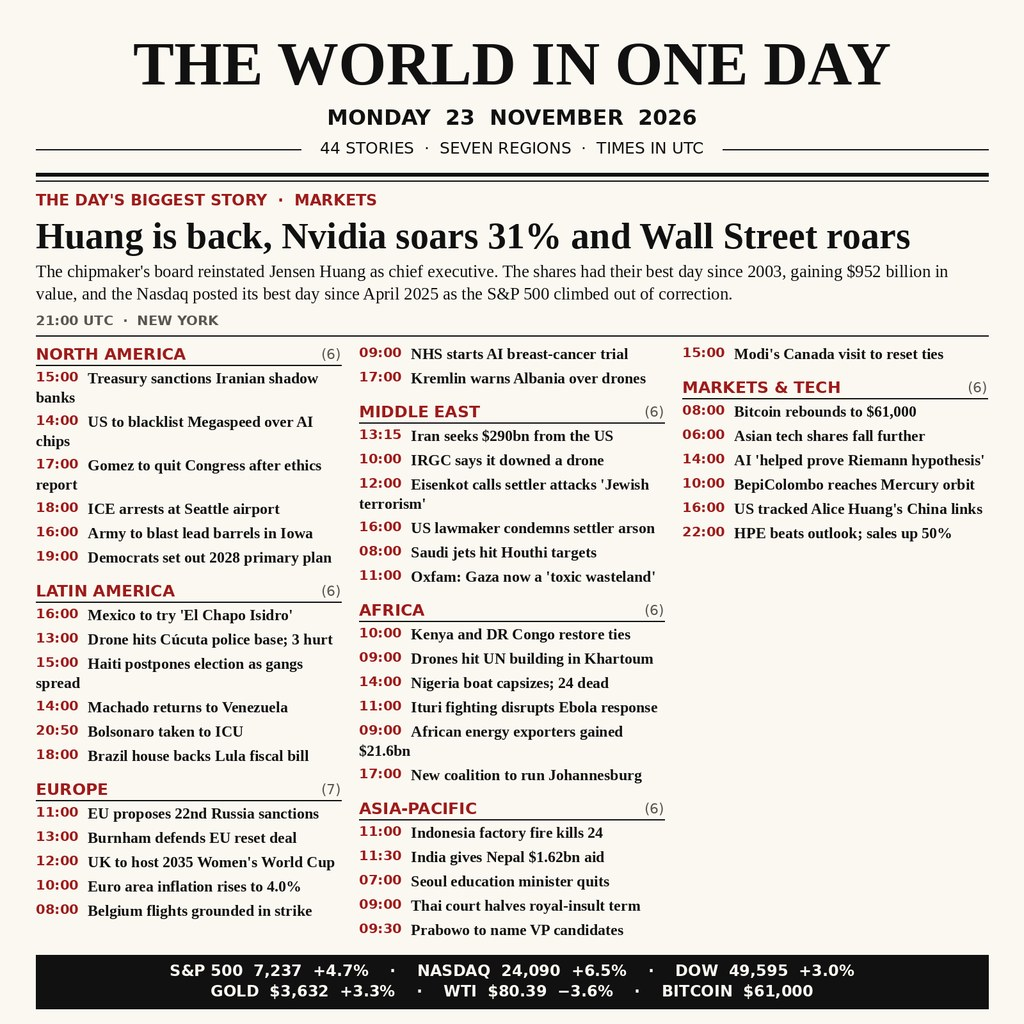
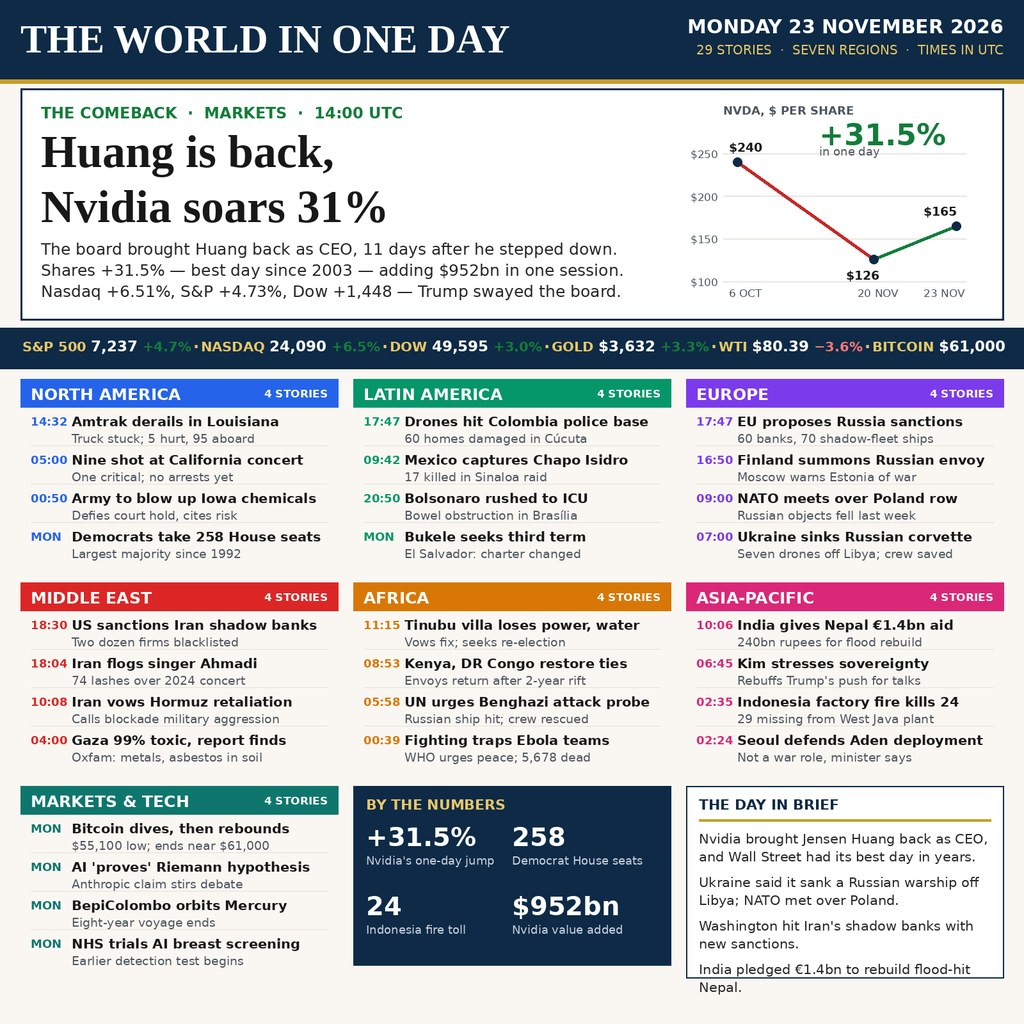
Round 4: rebuilt front page — 29 stories, new design

diff --git a/main.py b/main.py
@@ -1,25 +1,24 @@
-#!/usr/bin/env python3
-"""Copy the rendered front page to the output path.
+"""Place the bundled front page where the grader expects it.
 
-The image is rendered at build time and committed in the repository;
-this program only copies it, so both runs write identical bytes.
+The page itself is rendered while the entry is built and shipped in
+this repository as front.jpg. This program does no drawing: it puts a
+byte-identical copy of that file at /output/entry.png.
 """
 import os
 import shutil
 import sys
 
-HERE = os.path.dirname(os.path.abspath(__file__))
+ROOT = os.path.dirname(os.path.abspath(__file__))
+SHIPPED = os.path.join(ROOT, "front.jpg")
 
 
 def main():
-    out_dir = os.environ.get("MAKEFUN_OUTPUT_DIR", "/output")
+    out_dir = os.environ.get("MAKEFUN_OUTPUT_DIR") or "/output"
     os.makedirs(out_dir, exist_ok=True)
-    src = os.path.join(HERE, "front.jpg")
-    if not os.path.isfile(src):
-        print("front.jpg is missing from the repository", file=sys.stderr)
-        return 1
-    dst = os.path.join(out_dir, "entry.png")
-    shutil.copyfile(src, dst)
+    dest = os.path.join(out_dir, "entry.png")
+    shutil.copyfile(SHIPPED, dest)
+    if os.path.getsize(dest) != os.path.getsize(SHIPPED):
+        raise SystemExit("copied image does not match the shipped file")
     return 0
 
 

diff --git a/README.md b/README.md
@@ -4,18 +4,12 @@
 [![rank](https://make.fun/badge/news-image-20261123/bigD90girth/news-image-20261123/rank.svg)](https://make.fun/bounty/news-image-20261123/leaderboard?utm_source=github&utm_medium=readme&utm_campaign=news-image-20261123)
 [![reward](https://make.fun/badge/news-image-20261123/bigD90girth/news-image-20261123/reward.svg)](https://make.fun/bounty/news-image-20261123?utm_source=github&utm_medium=readme&utm_campaign=news-image-20261123)
 
-A newspaper front page summing up Monday 23 November 2026: Nvidia's board brings Jensen Huang back as chief executive and Wall Street posts its best day since April 2025, alongside 44 stories from seven regions and the day's market closes. The page is rendered with PIL at build time and committed here as front.jpg; main.py copies it to /output/entry.png.
-
-## What's inside
-
-- `front.jpg` — the front page itself, 1024x1024, 239,325 bytes
-- `main.py` — the entrypoint: copies `front.jpg` to `/output/entry.png`
-- `render.py` is not shipped; the image was drawn from wire reports of 23 November 2026 and checked story by story before committing
+A single picture of Monday 23 November 2026: the Nvidia comeback that lifted Wall Street, Ukraine's naval drones off Libya, fresh sanctions on Iran's shadow banks, and 25 more dated stories across seven regions — laid out as one front page with a drawn price chart, a markets strip and a day-in-brief box.
 
 ## Run it
 
 ```sh
-python3 main.py
+mkdir -p out && MAKEFUN_OUTPUT_DIR=out python3 main.py
 ```
 
 ---
